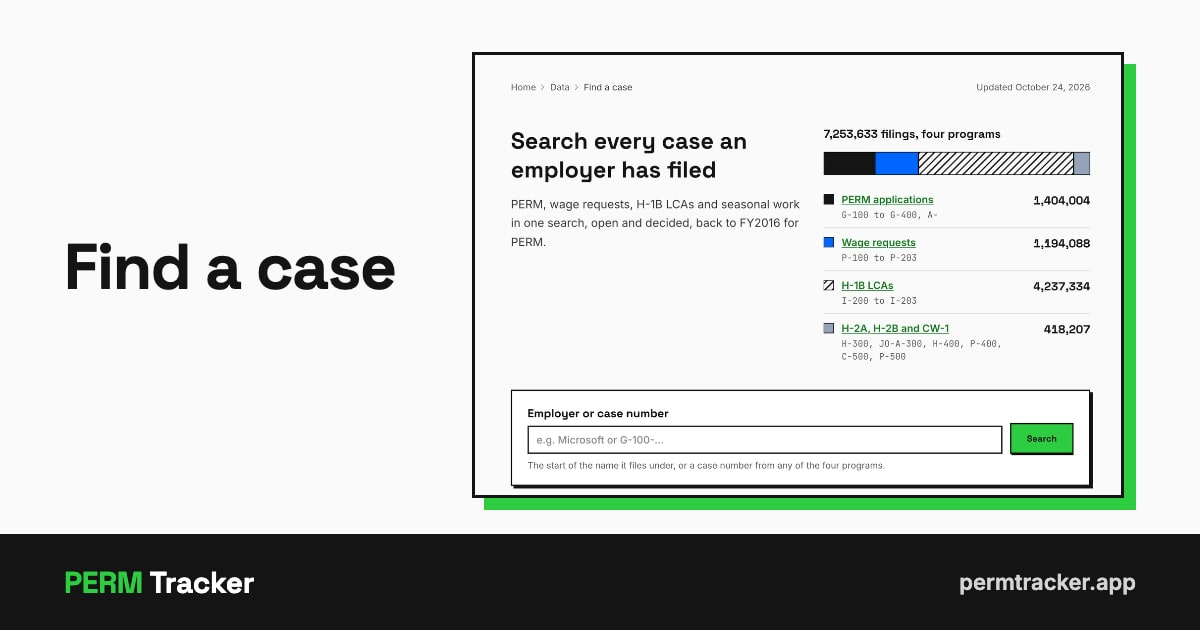
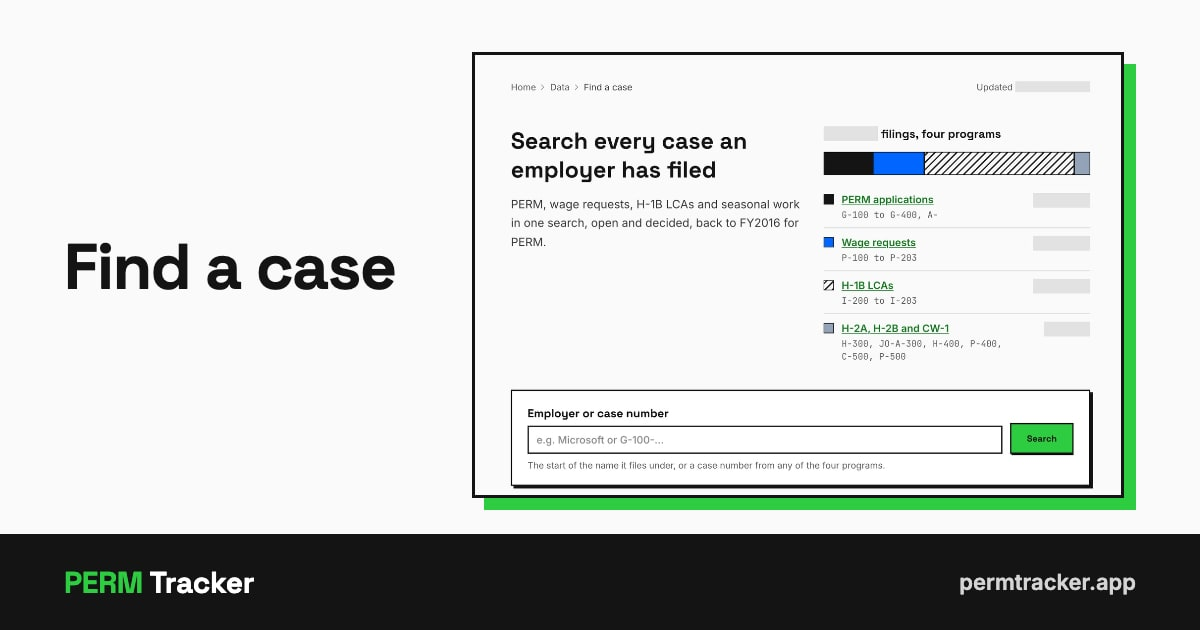
fix(cards): 19 share cards keep the page's shape and drop its moving figures
A shared card is a still picture, so a count or date on it goes stale (the
owner's rule: a card holds no live figure). An OCR pass found counts, shares
and dates on 19 cards: the case search, layoffs, LCA, wage-request, PERM and
seasonal searches, law firms, the queue, employers under review, press, the
I-140 and I-485 counts, the green card line, EB-2 vs EB-3, both salary
charts, denial risk and open data. Their specs now say "mask": "figures", and
the capture draws each moving figure as a grey bar of its own width (the
reviews card's treatment) and hides a chart's own labels, so each card still
shows its page. Codes and fixed wording stay (G-100-..., ETA-9089, I-140,
"60 days' notice"). The rule is scripts/lib_card_mask.mjs, tested; two passes
of looking at every card found what the first rule missed.

Claude-Session: https://claude.ai/code/session_01XYgdcpR3a27fwYMdTXZtsH

diff --git a/v2/src/lib/__tests__/cardMask.test.ts b/v2/src/lib/__tests__/cardMask.test.ts
@@ -1,0 +1,40 @@
+import { describe, expect, it } from "vitest";
+
+import { figureRuns, isBareFigure } from "../../../scripts/lib_card_mask.mjs";
+
+describe("what a social card masks", () => {
+  it("masks counts, percentages, dollars and dates", () => {
+    expect(figureRuns("2,880 PERM cases are on hold, 3.3% of the 88,138 DOL has pending, as of October 27, 2026.")).toEqual([
+      "2,880",
+      "3.3%",
+      "88,138",
+      "October 27, 2026",
+    ]);
+    expect(figureRuns("Each bar is a $10,000 band. DOL is working January 2026, since Oct 8. Cognizant 1,831, Adobe 226.")).toEqual([
+      "$10,000",
+      "January 2026",
+      "Oct 8",
+      "1,831",
+      "226",
+    ]);
+  });
+
+  it("masks the moving figures a first pass let through (Oct 29 2026)", () => {
+    expect(figureRuns("PERM wage requests take 3 to 4 months at DOL now; 3.4 to 10 years at that pace")).toEqual([
+      "3 to 4 months",
+      "3.4 to 10 years",
+    ]);
+    expect(figureRuns("Since the end of Tuesday: Denied +49, Reconsideration Appeals -12")).toEqual(["Tuesday", "+49", "-12"]);
+    expect(figureRuns("3.4 to 10")).toEqual(["3.4 to 10"]);
+    expect(figureRuns("2026-10-21 perm_queue; 2026-11 EB2 india 01NOV13")).toEqual(["2026-10-21", "2026-11", "01NOV13"]);
+  });
+
+  it("masks text that is only a figure, however short", () => {
+    expect(["8", " 79 ", "+8", "-12", "26%"].map(isBareFigure)).toEqual([true, true, true, true, true]);
+    expect(["EB-2", "I-140", "to", "Level II"].map(isBareFigure)).toEqual([false, false, false, false]);
+  });
+
+  it("leaves codes, form names and fixed wording alone", () => {
+    expect(figureRuns("G-100-26125-868956 on an ETA-9089, the I-140, FY2016, H-1B and EB-2; 60 days' notice")).toEqual([]);
+  });
+});
